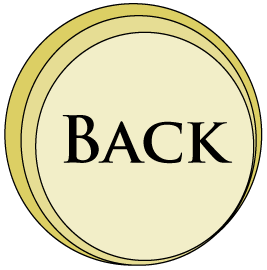
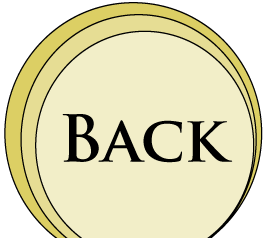
removed "red" layer over buttons added page showing MH site in an iframe showing videos hosted on youtube instead of hosted localy added page to insert user info

Changed region(s): [[0.0, 0.0, 0.9888, 1.0], [0.2397, 0.4118, 0.8689, 0.7059], [0.2996, 0.0294, 0.3596, 0.0588]]

diff --git a/js/jquery.validate.min.js b/js/jquery.validate.min.js
@@ -1,0 +1,4 @@
+/*! jQuery Validation Plugin - v1.14.0 - 6/30/2015
+ * http://jqueryvalidation.org/
+ * Copyright (c) 2015 Jörn Zaefferer; Licensed MIT */
+!function(a){"function"==typeof define&&define.amd?define(["jquery"],a):a(jQuery)}(function(a){a.extend(a.fn,{validate:function(b){if(!this.length)return void(b&&b.debug&&window.console&&console.warn("Nothing selected, can't validate, returning nothing."));var c=a.data(this[0],"validator");return c?c:(this.attr("novalidate","novalidate"),c=new a.validator(b,this[0]),a.data(this[0],"validator",c),c.settings.onsubmit&&(this.on("click.validate",":submit",function(b){c.settings.submitHandler&&(c.submitButton=b.target),a(this).hasClass("cancel")&&(c.cancelSubmit=!0),void 0!==a(this).attr("formnovalidate")&&(c.cancelSubmit=!0)}),this.on("submit.validate",function(b){function d(){var d,e;return c.settings.submitHandler?(c.submitButton&&(d=a("<input type='hidden'/>").attr("name",c.submitButton.name).val(a(c.submitButton).val()).appendTo(c.currentForm)),e=c.settings.submitHandler.call(c,c.currentForm,b),c.submitButton&&d.remove(),void 0!==e?e:!1):!0}return c.settings.debug&&b.preventDefault(),c.cancelSubmit?(c.cancelSubmit=!1,d()):c.form()?c.pendingRequest?(c.formSubmitted=!0,!1):d():(c.focusInvalid(),!1)})),c)},valid:function(){var b,c,d;return a(this[0]).is("form")?b=this.validate().form():(d=[],b=!0,c=a(this[0].form).validate(),this.each(function(){b=c.element(this)&&b,d=d.concat(c.errorList)}),c.errorList=d),b},rules:function(b,c){var d,e,f,g,h,i,j=this[0];if(b)switch(d=a.data(j.form,"validator").settings,e=d.rules,f=a.validator.staticRules(j),b){case"add":a.extend(f,a.validator.normalizeRule(c)),delete f.messages,e[j.name]=f,c.messages&&(d.messages[j.name]=a.extend(d.messages[j.name],c.messages));break;case"remove":return c?(i={},a.each(c.split(/\s/),function(b,c){i[c]=f[c],delete f[c],"required"===c&&a(j).removeAttr("aria-required")}),i):(delete e[j.name],f)}return g=a.validator.normalizeRules(a.extend({},a.validator.classRules(j),a.validator.attributeRules(j),a.validator.dataRules(j),a.validator.staticRules(j)),j),g.required&&(h=g.required,delete g.required,g=a.extend({required:h},g),a(j).attr("aria-required","true")),g.remote&&(h=g.remote,delete g.remote,g=a.extend(g,{remote:h})),g}}),a.extend(a.expr[":"],{blank:function(b){return!a.trim(""+a(b).val())},filled:function(b){return!!a.trim(""+a(b).val())},unchecked:function(b){return!a(b).prop("checked")}}),a.validator=function(b,c){this.settings=a.extend(!0,{},a.validator.defaults,b),this.currentForm=c,this.init()},a.validator.format=function(b,c){return 1===arguments.length?function(){var c=a.makeArray(arguments);return c.unshift(b),a.validator.format.apply(this,c)}:(arguments.length>2&&c.constructor!==Array&&(c=a.makeArray(arguments).slice(1)),c.constructor!==Array&&(c=[c]),a.each(c,function(a,c){b=b.replace(new RegExp("\\{"+a+"\\}","g"),function(){return c})}),b)},a.extend(a.validator,{defaults:{messages:{},groups:{},rules:{},errorClass:"error",validClass:"valid",errorElement:"label",focusCleanup:!1,focusInvalid:!0,errorContainer:a([]),errorLabelContainer:a([]),onsubmit:!0,ignore:":hidden",ignoreTitle:!1,onfocusin:function(a){this.lastActive=a,this.settings.focusCleanup&&(this.settings.unhighlight&&this.settings.unhighlight.call(this,a,this.settings.errorClass,this.settings.validClass),this.hideThese(this.errorsFor(a)))},onfocusout:function(a){this.checkable(a)||!(a.name in this.submitted)&&this.optional(a)||this.element(a)},onkeyup:function(b,c){var d=[16,17,18,20,35,36,37,38,39,40,45,144,225];9===c.which&&""===this.elementValue(b)||-1!==a.inArray(c.keyCode,d)||(b.name in this.submitted||b===this.lastElement)&&this.element(b)},onclick:function(a){a.name in this.submitted?this.element(a):a.parentNode.name in this.submitted&&this.element(a.parentNode)},highlight:function(b,c,d){"radio"===b.type?this.findByName(b.name).addClass(c).removeClass(d):a(b).addClass(c).removeClass(d)},unhighlight:function(b,c,d){"radio"===b.type?this.findByName(b.name).removeClass(c).addClass(d):a(b).removeClass(c).addClass(d)}},setDefaults:function(b){a.extend(a.validator.defaults,b)},messages:{required:"This field is required.",remote:"Please fix this field.",email:"Please enter a valid email address.",url:"Please enter a valid URL.",date:"Please enter a valid date.",dateISO:"Please enter a valid date ( ISO ).",number:"Please enter a valid number.",digits:"Please enter only digits.",creditcard:"Please enter a valid credit card number.",equalTo:"Please enter the same value again.",maxlength:a.validator.format("Please enter no more than {0} characters."),minlength:a.validator.format("Please enter at least {0} characters."),rangelength:a.validator.format("Please enter a value between {0} and {1} characters long."),range:a.validator.format("Please enter a value between {0} and {1}."),max:a.validator.format("Please enter a value less than or equal to {0}."),min:a.validator.format("Please enter a value greater than or equal to {0}.")},autoCreateRanges:!1,prototype:{init:function(){function b(b){var c=a.data(this.form,"validator"),d="on"+b.type.replace(/^validate/,""),e=c.settings;e[d]&&!a(this).is(e.ignore)&&e[d].call(c,this,b)}this.labelContainer=a(this.settings.errorLabelContainer),this.errorContext=this.labelContainer.length&&this.labelContainer||a(this.currentForm),this.containers=a(this.settings.errorContainer).add(this.settings.errorLabelContainer),this.submitted={},this.valueCache={},this.pendingRequest=0,this.pending={},this.invalid={},this.reset();var c,d=this.groups={};a.each(this.settings.groups,function(b,c){"string"==typeof c&&(c=c.split(/\s/)),a.each(c,function(a,c){d[c]=b})}),c=this.settings.rules,a.each(c,function(b,d){c[b]=a.validator.normalizeRule(d)}),a(this.currentForm).on("focusin.validate focusout.validate keyup.validate",":text, [type='password'], [type='file'], select, textarea, [type='number'], [type='search'], [type='tel'], [type='url'], [type='email'], [type='datetime'], [type='date'], [type='month'], [type='week'], [type='time'], [type='datetime-local'], [type='range'], [type='color'], [type='radio'], [type='checkbox']",b).on("click.validate","select, option, [type='radio'], [type='checkbox']",b),this.settings.invalidHandler&&a(this.currentForm).on("invalid-form.validate",this.settings.invalidHandler),a(this.currentForm).find("[required], [data-rule-required], .required").attr("aria-required","true")},form:function(){return this.checkForm(),a.extend(this.submitted,this.errorMap),this.invalid=a.extend({},this.errorMap),this.valid()||a(this.currentForm).triggerHandler("invalid-form",[this]),this.showErrors(),this.valid()},checkForm:function(){this.prepareForm();for(var a=0,b=this.currentElements=this.elements();b[a];a++)this.check(b[a]);return this.valid()},element:function(b){var c=this.clean(b),d=this.validationTargetFor(c),e=!0;return this.lastElement=d,void 0===d?delete this.invalid[c.name]:(this.prepareElement(d),this.currentElements=a(d),e=this.check(d)!==!1,e?delete this.invalid[d.name]:this.invalid[d.name]=!0),a(b).attr("aria-invalid",!e),this.numberOfInvalids()||(this.toHide=this.toHide.add(this.containers)),this.showErrors(),e},showErrors:function(b){if(b){a.extend(this.errorMap,b),this.errorList=[];for(var c in b)this.errorList.push({message:b[c],element:this.findByName(c)[0]});this.successList=a.grep(this.successList,function(a){return!(a.name in b)})}this.settings.showErrors?this.settings.showErrors.call(this,this.errorMap,this.errorList):this.defaultShowErrors()},resetForm:function(){a.fn.resetForm&&a(this.currentForm).resetForm(),this.submitted={},this.lastElement=null,this.prepareForm(),this.hideErrors();var b,c=this.elements().removeData("previousValue").removeAttr("aria-invalid");if(this.settings.unhighlight)for(b=0;c[b];b++)this.settings.unhighlight.call(this,c[b],this.settings.errorClass,"");else c.removeClass(this.settings.errorClass)},numberOfInvalids:function(){return this.objectLength(this.invalid)},objectLength:function(a){var b,c=0;for(b in a)c++;return c},hideErrors:function(){this.hideThese(this.toHide)},hideThese:function(a){a.not(this.containers).text(""),this.addWrapper(a).hide()},valid:function(){return 0===this.size()},size:function(){return this.errorList.length},focusInvalid:function(){if(this.settings.focusInvalid)try{a(this.findLastActive()||this.errorList.length&&this.errorList[0].element||[]).filter(":visible").focus().trigger("focusin")}catch(b){}},findLastActive:function(){var b=this.lastActive;return b&&1===a.grep(this.errorList,function(a){return a.element.name===b.name}).length&&b},elements:function(){var b=this,c={};return a(this.currentForm).find("input, select, textarea").not(":submit, :reset, :image, :disabled").not(this.settings.ignore).filter(function(){return!this.name&&b.settings.debug&&window.console&&console.error("%o has no name assigned",this),this.name in c||!b.objectLength(a(this).rules())?!1:(c[this.name]=!0,!0)})},clean:function(b){return a(b)[0]},errors:function(){var b=this.settings.errorClass.split(" ").join(".");return a(this.settings.errorElement+"."+b,this.errorContext)},reset:function(){this.successList=[],this.errorList=[],this.errorMap={},this.toShow=a([]),this.toHide=a([]),this.currentElements=a([])},prepareForm:function(){this.reset(),this.toHide=this.errors().add(this.containers)},prepareElement:function(a){this.reset(),this.toHide=this.errorsFor(a)},elementValue:function(b){var c,d=a(b),e=b.type;return"radio"===e||"checkbox"===e?this.findByName(b.name).filter(":checked").val():"number"===e&&"undefined"!=typeof b.validity?b.validity.badInput?!1:d.val():(c=d.val(),"string"==typeof c?c.replace(/\r/g,""):c)},check:function(b){b=this.validationTargetFor(this.clean(b));var c,d,e,f=a(b).rules(),g=a.map(f,function(a,b){return b}).length,h=!1,i=this.elementValue(b);for(d in f){e={method:d,parameters:f[d]};try{if(c=a.validator.methods[d].call(this,i,b,e.parameters),"dependency-mismatch"===c&&1===g){h=!0;continue}if(h=!1,"pending"===c)return void(this.toHide=this.toHide.not(this.errorsFor(b)));if(!c)return this.formatAndAdd(b,e),!1}catch(j){throw this.settings.debug&&window.console&&console.log("Exception occurred when checking element "+b.id+", check the '"+e.method+"' method.",j),j instanceof TypeError&&(j.message+=".  Exception occurred when checking element "+b.id+", check the '"+e.method+"' method."),j}}if(!h)return this.objectLength(f)&&this.successList.push(b),!0},customDataMessage:function(b,c){return a(b).data("msg"+c.charAt(0).toUpperCase()+c.substring(1).toLowerCase())||a(b).data("msg")},customMessage:function(a,b){var c=this.settings.messages[a];return c&&(c.constructor===String?c:c[b])},findDefined:function(){for(var a=0;a<arguments.length;a++)if(void 0!==arguments[a])return arguments[a];return void 0},defaultMessage:function(b,c){return this.findDefined(this.customMessage(b.name,c),this.customDataMessage(b,c),!this.settings.ignoreTitle&&b.title||void 0,a.validator.messages[c],"<strong>Warning: No message defined for "+b.name+"</strong>")},formatAndAdd:function(b,c){var d=this.defaultMessage(b,c.method),e=/\$?\{(\d+)\}/g;"function"==typeof d?d=d.call(this,c.parameters,b):e.test(d)&&(d=a.validator.format(d.replace(e,"{$1}"),c.parameters)),this.errorList.push({message:d,element:b,method:c.method}),this.errorMap[b.name]=d,this.submitted[b.name]=d},addWrapper:function(a){return this.settings.wrapper&&(a=a.add(a.parent(this.settings.wrapper))),a},defaultShowErrors:function(){var a,b,c;for(a=0;this.errorList[a];a++)c=this.errorList[a],this.settings.highlight&&this.settings.highlight.call(this,c.element,this.settings.errorClass,this.settings.validClass),this.showLabel(c.element,c.message);if(this.errorList.length&&(this.toShow=this.toShow.add(this.containers)),this.settings.success)for(a=0;this.successList[a];a++)this.showLabel(this.successList[a]);if(this.settings.unhighlight)for(a=0,b=this.validElements();b[a];a++)this.settings.unhighlight.call(this,b[a],this.settings.errorClass,this.settings.validClass);this.toHide=this.toHide.not(this.toShow),this.hideErrors(),this.addWrapper(this.toShow).show()},validElements:function(){return this.currentElements.not(this.invalidElements())},invalidElements:function(){return a(this.errorList).map(function(){return this.element})},showLabel:function(b,c){var d,e,f,g=this.errorsFor(b),h=this.idOrName(b),i=a(b).attr("aria-describedby");g.length?(g.removeClass(this.settings.validClass).addClass(this.settings.errorClass),g.html(c)):(g=a("<"+this.settings.errorElement+">").attr("id",h+"-error").addClass(this.settings.errorClass).html(c||""),d=g,this.settings.wrapper&&(d=g.hide().show().wrap("<"+this.settings.wrapper+"/>").parent()),this.labelContainer.length?this.labelContainer.append(d):this.settings.errorPlacement?this.settings.errorPlacement(d,a(b)):d.insertAfter(b),g.is("label")?g.attr("for",h):0===g.parents("label[for='"+h+"']").length&&(f=g.attr("id").replace(/(:|\.|\[|\]|\$)/g,"\\$1"),i?i.match(new RegExp("\\b"+f+"\\b"))||(i+=" "+f):i=f,a(b).attr("aria-describedby",i),e=this.groups[b.name],e&&a.each(this.groups,function(b,c){c===e&&a("[name='"+b+"']",this.currentForm).attr("aria-describedby",g.attr("id"))}))),!c&&this.settings.success&&(g.text(""),"string"==typeof this.settings.success?g.addClass(this.settings.success):this.settings.success(g,b)),this.toShow=this.toShow.add(g)},errorsFor:function(b){var c=this.idOrName(b),d=a(b).attr("aria-describedby"),e="label[for='"+c+"'], label[for='"+c+"'] *";return d&&(e=e+", #"+d.replace(/\s+/g,", #")),this.errors().filter(e)},idOrName:function(a){return this.groups[a.name]||(this.checkable(a)?a.name:a.id||a.name)},validationTargetFor:function(b){return this.checkable(b)&&(b=this.findByName(b.name)),a(b).not(this.settings.ignore)[0]},checkable:function(a){return/radio|checkbox/i.test(a.type)},findByName:function(b){return a(this.currentForm).find("[name='"+b+"']")},getLength:function(b,c){switch(c.nodeName.toLowerCase()){case"select":return a("option:selected",c).length;case"input":if(this.checkable(c))return this.findByName(c.name).filter(":checked").length}return b.length},depend:function(a,b){return this.dependTypes[typeof a]?this.dependTypes[typeof a](a,b):!0},dependTypes:{"boolean":function(a){return a},string:function(b,c){return!!a(b,c.form).length},"function":function(a,b){return a(b)}},optional:function(b){var c=this.elementValue(b);return!a.validator.methods.required.call(this,c,b)&&"dependency-mismatch"},startRequest:function(a){this.pending[a.name]||(this.pendingRequest++,this.pending[a.name]=!0)},stopRequest:function(b,c){this.pendingRequest--,this.pendingRequest<0&&(this.pendingRequest=0),delete this.pending[b.name],c&&0===this.pendingRequest&&this.formSubmitted&&this.form()?(a(this.currentForm).submit(),this.formSubmitted=!1):!c&&0===this.pendingRequest&&this.formSubmitted&&(a(this.currentForm).triggerHandler("invalid-form",[this]),this.formSubmitted=!1)},previousValue:function(b){return a.data(b,"previousValue")||a.data(b,"previousValue",{old:null,valid:!0,message:this.defaultMessage(b,"remote")})},destroy:function(){this.resetForm(),a(this.currentForm).off(".validate").removeData("validator")}},classRuleSettings:{required:{required:!0},email:{email:!0},url:{url:!0},date:{date:!0},dateISO:{dateISO:!0},number:{number:!0},digits:{digits:!0},creditcard:{creditcard:!0}},addClassRules:function(b,c){b.constructor===String?this.classRuleSettings[b]=c:a.extend(this.classRuleSettings,b)},classRules:function(b){var c={},d=a(b).attr("class");return d&&a.each(d.split(" "),function(){this in a.validator.classRuleSettings&&a.extend(c,a.validator.classRuleSettings[this])}),c},normalizeAttributeRule:function(a,b,c,d){/min|max/.test(c)&&(null===b||/number|range|text/.test(b))&&(d=Number(d),isNaN(d)&&(d=void 0)),d||0===d?a[c]=d:b===c&&"range"!==b&&(a[c]=!0)},attributeRules:function(b){var c,d,e={},f=a(b),g=b.getAttribute("type");for(c in a.validator.methods)"required"===c?(d=b.getAttribute(c),""===d&&(d=!0),d=!!d):d=f.attr(c),this.normalizeAttributeRule(e,g,c,d);return e.maxlength&&/-1|2147483647|524288/.test(e.maxlength)&&delete e.maxlength,e},dataRules:function(b){var c,d,e={},f=a(b),g=b.getAttribute("type");for(c in a.validator.methods)d=f.data("rule"+c.charAt(0).toUpperCase()+c.substring(1).toLowerCase()),this.normalizeAttributeRule(e,g,c,d);return e},staticRules:function(b){var c={},d=a.data(b.form,"validator");return d.settings.rules&&(c=a.validator.normalizeRule(d.settings.rules[b.name])||{}),c},normalizeRules:function(b,c){return a.each(b,function(d,e){if(e===!1)return void delete b[d];if(e.param||e.depends){var f=!0;switch(typeof e.depends){case"string":f=!!a(e.depends,c.form).length;break;case"function":f=e.depends.call(c,c)}f?b[d]=void 0!==e.param?e.param:!0:delete b[d]}}),a.each(b,function(d,e){b[d]=a.isFunction(e)?e(c):e}),a.each(["minlength","maxlength"],function(){b[this]&&(b[this]=Number(b[this]))}),a.each(["rangelength","range"],function(){var c;b[this]&&(a.isArray(b[this])?b[this]=[Number(b[this][0]),Number(b[this][1])]:"string"==typeof b[this]&&(c=b[this].replace(/[\[\]]/g,"").split(/[\s,]+/),b[this]=[Number(c[0]),Number(c[1])]))}),a.validator.autoCreateRanges&&(null!=b.min&&null!=b.max&&(b.range=[b.min,b.max],delete b.min,delete b.max),null!=b.minlength&&null!=b.maxlength&&(b.rangelength=[b.minlength,b.maxlength],delete b.minlength,delete b.maxlength)),b},normalizeRule:function(b){if("string"==typeof b){var c={};a.each(b.split(/\s/),function(){c[this]=!0}),b=c}return b},addMethod:function(b,c,d){a.validator.methods[b]=c,a.validator.messages[b]=void 0!==d?d:a.validator.messages[b],c.length<3&&a.validator.addClassRules(b,a.validator.normalizeRule(b))},methods:{required:function(b,c,d){if(!this.depend(d,c))return"dependency-mismatch";if("select"===c.nodeName.toLowerCase()){var e=a(c).val();return e&&e.length>0}return this.checkable(c)?this.getLength(b,c)>0:b.length>0},email:function(a,b){return this.optional(b)||/^[a-zA-Z0-9.!#$%&'*+\/=?^_`{|}~-]+@[a-zA-Z0-9](?:[a-zA-Z0-9-]{0,61}[a-zA-Z0-9])?(?:\.[a-zA-Z0-9](?:[a-zA-Z0-9-]{0,61}[a-zA-Z0-9])?)*$/.test(a)},url:function(a,b){return this.optional(b)||/^(?:(?:(?:https?|ftp):)?\/\/)(?:\S+(?::\S*)?@)?(?:(?!(?:10|127)(?:\.\d{1,3}){3})(?!(?:169\.254|192\.168)(?:\.\d{1,3}){2})(?!172\.(?:1[6-9]|2\d|3[0-1])(?:\.\d{1,3}){2})(?:[1-9]\d?|1\d\d|2[01]\d|22[0-3])(?:\.(?:1?\d{1,2}|2[0-4]\d|25[0-5])){2}(?:\.(?:[1-9]\d?|1\d\d|2[0-4]\d|25[0-4]))|(?:(?:[a-z\u00a1-\uffff0-9]-*)*[a-z\u00a1-\uffff0-9]+)(?:\.(?:[a-z\u00a1-\uffff0-9]-*)*[a-z\u00a1-\uffff0-9]+)*(?:\.(?:[a-z\u00a1-\uffff]{2,})).?)(?::\d{2,5})?(?:[/?#]\S*)?$/i.test(a)},date:function(a,b){return this.optional(b)||!/Invalid|NaN/.test(new Date(a).toString())},dateISO:function(a,b){return this.optional(b)||/^\d{4}[\/\-](0?[1-9]|1[012])[\/\-](0?[1-9]|[12][0-9]|3[01])$/.test(a)},number:function(a,b){return this.optional(b)||/^(?:-?\d+|-?\d{1,3}(?:,\d{3})+)?(?:\.\d+)?$/.test(a)},digits:function(a,b){return this.optional(b)||/^\d+$/.test(a)},creditcard:function(a,b){if(this.optional(b))return"dependency-mismatch";if(/[^0-9 \-]+/.test(a))return!1;var c,d,e=0,f=0,g=!1;if(a=a.replace(/\D/g,""),a.length<13||a.length>19)return!1;for(c=a.length-1;c>=0;c--)d=a.charAt(c),f=parseInt(d,10),g&&(f*=2)>9&&(f-=9),e+=f,g=!g;return e%10===0},minlength:function(b,c,d){var e=a.isArray(b)?b.length:this.getLength(b,c);return this.optional(c)||e>=d},maxlength:function(b,c,d){var e=a.isArray(b)?b.length:this.getLength(b,c);return this.optional(c)||d>=e},rangelength:function(b,c,d){var e=a.isArray(b)?b.length:this.getLength(b,c);return this.optional(c)||e>=d[0]&&e<=d[1]},min:function(a,b,c){return this.optional(b)||a>=c},max:function(a,b,c){return this.optional(b)||c>=a},range:function(a,b,c){return this.optional(b)||a>=c[0]&&a<=c[1]},equalTo:function(b,c,d){var e=a(d);return this.settings.onfocusout&&e.off(".validate-equalTo").on("blur.validate-equalTo",function(){a(c).valid()}),b===e.val()},remote:function(b,c,d){if(this.optional(c))return"dependency-mismatch";var e,f,g=this.previousValue(c);return this.settings.messages[c.name]||(this.settings.messages[c.name]={}),g.originalMessage=this.settings.messages[c.name].remote,this.settings.messages[c.name].remote=g.message,d="string"==typeof d&&{url:d}||d,g.old===b?g.valid:(g.old=b,e=this,this.startRequest(c),f={},f[c.name]=b,a.ajax(a.extend(!0,{mode:"abort",port:"validate"+c.name,dataType:"json",data:f,context:e.currentForm,success:function(d){var f,h,i,j=d===!0||"true"===d;e.settings.messages[c.name].remote=g.originalMessage,j?(i=e.formSubmitted,e.prepareElement(c),e.formSubmitted=i,e.successList.push(c),delete e.invalid[c.name],e.showErrors()):(f={},h=d||e.defaultMessage(c,"remote"),f[c.name]=g.message=a.isFunction(h)?h(b):h,e.invalid[c.name]=!0,e.showErrors(f)),g.valid=j,e.stopRequest(c,j)}},d)),"pending")}}});var b,c={};a.ajaxPrefilter?a.ajaxPrefilter(function(a,b,d){var e=a.port;"abort"===a.mode&&(c[e]&&c[e].abort(),c[e]=d)}):(b=a.ajax,a.ajax=function(d){var e=("mode"in d?d:a.ajaxSettings).mode,f=("port"in d?d:a.ajaxSettings).port;return"abort"===e?(c[f]&&c[f].abort(),c[f]=b.apply(this,arguments),c[f]):b.apply(this,arguments)})});

diff --git a/index.html b/index.html
@@ -12,45 +12,58 @@
 
 <body>
 	<section class="page" id="home">
-		<div id="bt_website" class="btn red" onclick="show('website');"></div>
-		<div id="bt_eplanning" class="btn red" onclick="show('eplanning');"></div>
-		<div id="bt_weekend" class="btn red" onclick="show('weekend');"></div>
+		<div id="bt_website" class="btn" onclick="show('website');"></div>
+		<div id="bt_eplanning" class="btn" onclick="show('eplanning');"></div>
+		<div id="bt_weekend" class="btn" onclick="show('weekend');"></div>
 	</section>
 	<section class="page" id="website">
-		<div class="bt_back red" onclick="show('home');"></div>
+		<iframe src="http://www.mercuriushealth.com/" frameborder="0" height="100%" width="100%" scrolling="auto"></iframe>
+		<div id="bt_back_logo"></div>
+		<div class="bt_back" onclick="show('home');"></div>
 	</section>
 	<section class="page" id="eplanning">
-		<div class="bt_back red" onclick="show('home');"></div>
+		<div class="bt_back" onclick="show('home');"></div>
 		<div class="vd_wrapper">
-			<video id="vd_eplanning">
-				<source src="videos/eplanning.mp4" type="video/mp4">
-				Your browser does not support HTML5 video.
-			</video>
+			<iframe id="vd_eplanning" class="vd_iframe" frameborder="0"></iframe>
 		</div>
 	</section>
 	<section class="page" id="weekend">
-		<div class="bt_back red" onclick="show('home');"></div>
-		<div id="bt_help" class="bt_small red" onclick="show('weekend_video');"></div>
-		<div id="bt_option1" class="bt_option red" onclick="show('registration');"></div>
-		<div id="bt_option2" class="bt_option red" onclick="show('weekend_video');"></div>
+		<div class="bt_back" onclick="show('home');"></div>
+		<div id="bt_help" class="bt_small" onclick="show('weekend_video');"></div>
+		<div id="bt_option1" class="bt_option" onclick="show('registration');"></div>
+		<div id="bt_option2" class="bt_option" onclick="show('weekend_video');"></div>
 	</section>
 	<section class="page" id="weekend_video">
-		<div class="bt_back red" onclick="show('weekend');"></div>
+		<div class="bt_back" onclick="show('weekend');"></div>
 		<div class="vd_wrapper">
-			<video id="vd_weekend">
-				<source src="videos/mh.mp4" type="video/mp4">
-				Your browser does not support HTML5 video.
-			</video>
+			<iframe id="vd_weekend" class="vd_iframe" frameborder="0"></iframe>
 		</div>
 	</section>
 	<section class="page" id="registration">
-		<div class="bt_back red" onclick="show('weekend');"></div>
-		<div id="bt_ok" class="bt_small red" onclick="show('home');"></div>
+		<div class="bt_back" onclick="show('weekend');"></div>
+		<div id="bt_ok" class="" onclick="save();"></div>
+		<form id="form">
+			<div class="form-group">
+				<div id="input_name_row" class="input_row input-group">
+					<input type="text" class="form_input" id="inputName" name="inputName"/>
+				</div>
+				<div id="input_email_row" class="input_row input-group">
+					<input type="text" class="form_input" id="inputEmail" name="inputEmail"/>
+				</div>
+				<div id="input_position_row" class="input_row input-group">
+					<input type="text" class="form_input" id="inputPosition" name="inputPosition"/>
+				</div>
+				<div id="input_country_row" class="input_row input-group">
+					<input type="text" class="form_input" id="inputCountry" name="inputCountry"/>
+				</div>
+			</div>
+		</form>
 	</section>
 	<section class="page" id="export">
 	</section>
 
 	<script src="js/jquery-1.11.3.min.js"></script>
+	<script src="js/jquery.validate.min.js"></script>
 	<script src="js/script.js"></script>
 </body>
 

diff --git a/js/script.js b/js/script.js
@@ -1,5 +1,10 @@
 var page = $('.page');
 var home = $('#home');
+var inForm = $('#form');
+var inName = $("#inputName");
+var inEmail = $("#inputEmail");
+var inPosition = $("#inputPosition");
+var inCountry = $("#inputCountry");
 var vd_eplanning = $('#vd_eplanning');
 var vd_weekend = $('#vd_weekend');
 var pagename_eplanning = 'eplanning';
@@ -17,18 +22,84 @@ function show(id) {
   stopVideos();
 
   if(id == pagename_eplanning) {
-    startVideo(vd_eplanning);
+    startVideoEplanning();
   }
 
   if(id == pagename_weekend_video) {
-    startVideo(vd_weekend);
+    startVideoWeekend();
   }
 }
 
-function startVideo(vd) {
-  vd[0].play();
+function startVideoEplanning() {
+  vd_eplanning[0].src = "https://www.youtube.com/embed/wgFKdVVjh3I?enablejsapi=1&controls=0&autoplay=1&modestbranding=1";
+}
+
+function startVideoWeekend() {
+  vd_weekend[0].src = "https://www.youtube.com/embed/wgFKdVVjh3I?enablejsapi=1&controls=0&autoplay=1&modestbranding=1";
 }
 
 function stopVideos() {
-  $('video').each(function () { this.pause(); this.currentTime = 0; });
+  vd_eplanning[0].src = "";
+  vd_weekend[0].src = "";
 }
+
+// prevent submit of form with user data
+inForm.submit(function(event) {
+  event.preventDefault();
+});
+
+// save user data at localStorage with json
+function save() {
+  inForm.submit();
+  if (inForm.valid()) {
+    //input user data
+    var name = inName.val();
+    name = name.substring(name.indexOf('=') + 1);
+    var email = inEmail.val();
+    email = email.substring(email.indexOf('=') + 1);
+    var position = inPosition.val();
+    position = position.substring(position.indexOf('=') + 1);
+    var country = inCountry.val();
+    country = country.substring(country.indexOf('=') + 1);
+
+    //save user data
+    var contact = new Object();
+    contact.name = name;
+    contact.email = email;
+    contact.position = position;
+    contact.country = country;
+
+/*
+    var contacts = JSON.parse(localStorage["contacts"]);
+    contacts.push(contact);
+    // save contacts at localStorage
+    localStorage["contacts"] = JSON.stringify(contacts);
+*/
+
+    //clear input data
+    inName.val("");
+    inEmail.val("");
+    inPosition.val("");
+    inCountry.val("");
+
+    page.hide();
+    home.show();
+  }
+}
+
+inForm.validate({
+  rules: {
+    inputName: {
+      required: true
+    },
+    inputEmail: {
+      required: true
+    },
+    inputPosition: {
+      required: true
+    },
+    inputCountry: {
+      required: true
+    },
+  }
+});

diff --git a/css/style.css b/css/style.css
@@ -21,6 +21,10 @@ html, body, section {
 	background-image: url(../img/player.png);
 }
 
+#registration {
+	background-image: url(../img/registration.png);
+}
+
 .red {
 	background-color: red;
 	opacity: 0.5;
@@ -63,7 +67,7 @@ html, body, section {
 	overflow: hidden;
 }
 
-.vd_wrapper video {
+.vd_wrapper iframe {
 	width: 100%;
 	height: 100%;
 }
@@ -96,4 +100,57 @@ html, body, section {
 #bt_option2 {
 	top: 57.8%;
 	left: 18.7%;
+}
+
+#bt_back_logo {
+	position: absolute;
+	bottom: 0;
+	right: 0;
+	width: 13%;
+	height: 15%;
+	background-image: url(../img/back.png);
+	background-repeat: no-repeat;
+	background-size: 100% 100%;
+}
+
+#bt_ok {
+	position: absolute;
+	width: 7.5%;
+	height: 10.5%;
+	border-radius: 100px;
+	top: 46%;
+	right: 1.5%;
+}
+
+.input_row {
+	position: absolute;
+	width: 52.5%;
+	height: 3.5%;
+	left: 37.5%;
+}
+
+#input_name_row {
+	top: 38%;
+}
+
+#input_email_row {
+	top: 45.2%;
+}
+
+#input_position_row {
+	top: 52.4%;
+}
+
+#input_country_row {
+	top: 59.6%;
+}
+
+.form_input {
+	height: 100%;
+	width: 100%;
+	border: 0;
+	padding: 0;
+	background: transparent;
+	color: #000000;
+	font-size: 16px;
 }
